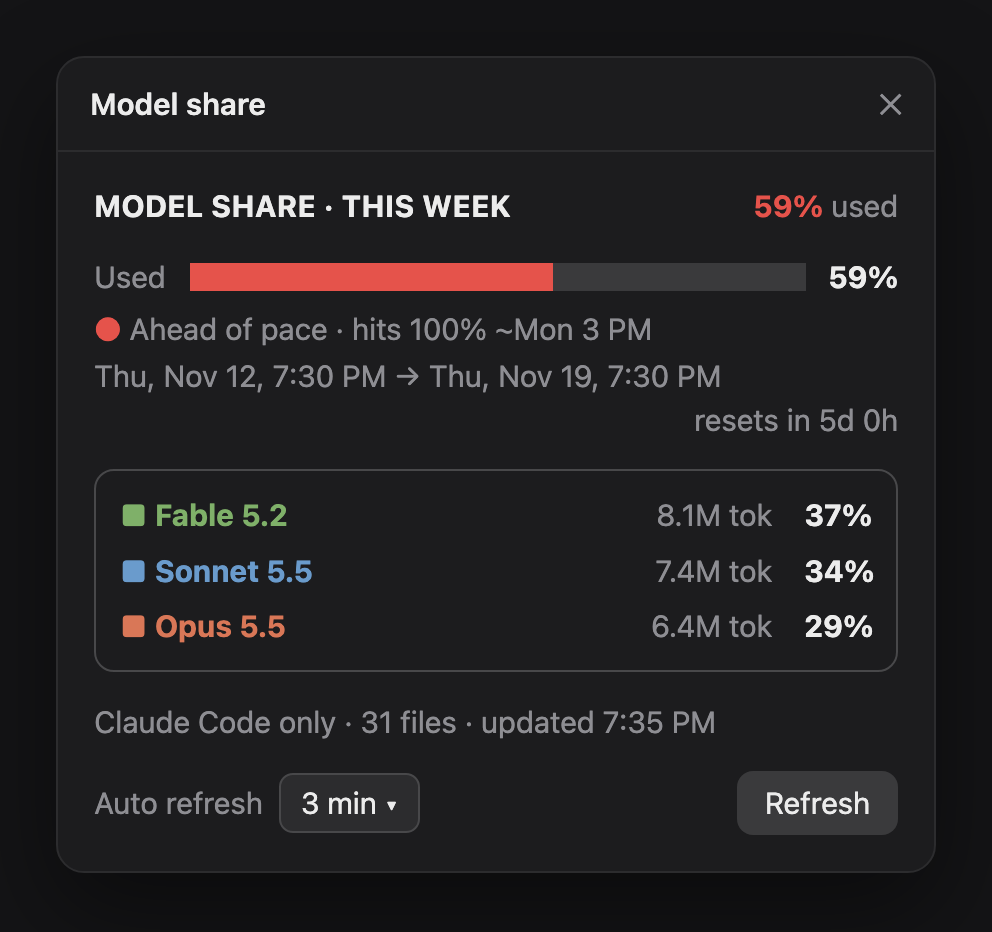
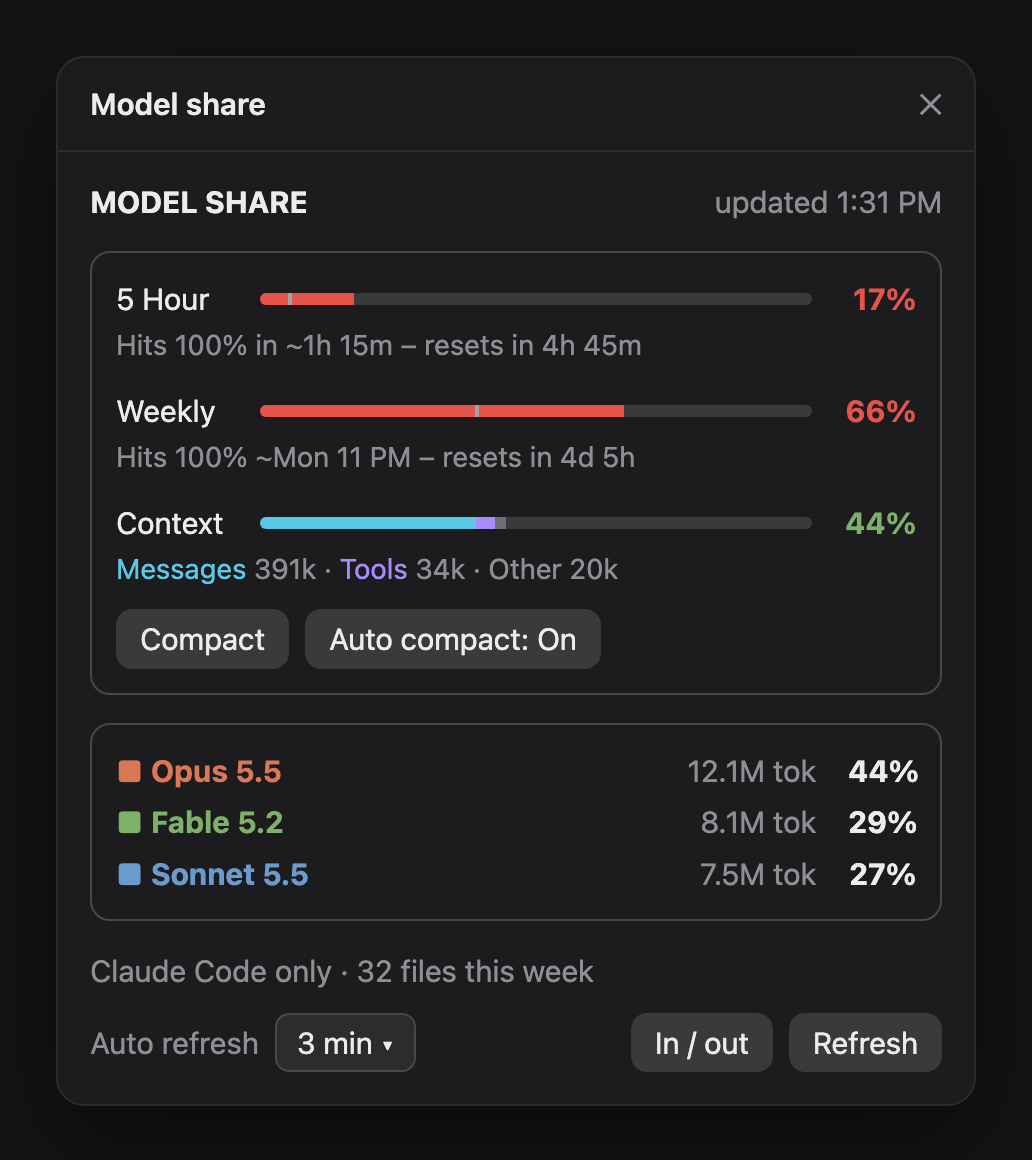
Update the README GIF and image to the 1.0 pane

diff --git a/README.md b/README.md
@@ -5,7 +5,7 @@ A [Claude Code](https://claude.com/claude-code) mod that shows **which models yo
 Think of your week like distance driven: if you've driven 10 km, how much of it was by car, bike or truck? Here, everything you used this week is 100%, and each model gets its share.
 
 <p align="center">
-  <img src="assets/pane.gif" alt="The Model share pane refreshing: the weekly limit bar grows from 52% to 59% and turns red for ahead of pace, and the split updates to Fable 5.2 37%, Sonnet 5.5 34%, Opus 5.5 29%" width="480">
+  <img src="assets/pane.gif" alt="The Model share pane refreshing: 5-hour limit at 17% (hits 100% in about 1h 15m), weekly limit at 66%, context at 44% split into messages, tools and other, and this week's usage split Opus 5.5 44%, Fable 5.2 29%, Sonnet 5.5 27%" width="480">
 </p>
 
 ```
